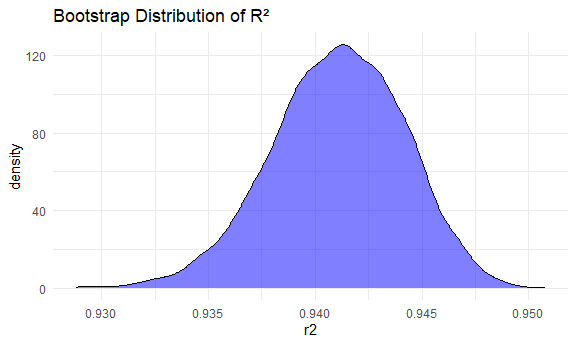
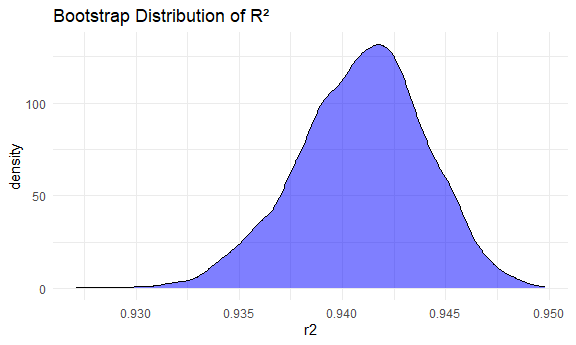
commented on graphs, finished assignment

diff --git a/p8105_hw6_csl2209.md b/p8105_hw6_csl2209.md
@@ -133,6 +133,10 @@ city_OR |>
 
 <img src="p8105_hw6_csl2209_files/figure-gfm/unnamed-chunk-5-1.png" width="90%" />
 
+**Albuquerque has the largest OR and the largest CI range. New York has
+the lowest CI range, and the lowest OR for homicide resolution (men
+vs. women).**
+
 ## Problem 2
 
 ``` r
@@ -218,6 +222,14 @@ ggplot(boot_results, aes(x = beta_product)) +
 
 <img src="p8105_hw6_csl2209_files/figure-gfm/unnamed-chunk-10-2.png" width="90%" />
 
+**The distribution of R^2 values is fairly symmetrical and centered with
+a minimal skew to the right. These features suggest a normal
+distribution of R^2 values.**
+
+**The distribution of B1/B2 is skewed to the right, and has a heavy tail
+extending to low values. These features may be related to the frequency
+with which large outliers are included in the bootstrap sample.**
+
 Using the 5000 bootstrap estimates, identify the 2.5% and 97.5%
 quantiles to provide a 95% confidence interval for r^2 and
 β<sup>1β</sup>2.
@@ -234,7 +246,7 @@ boot_results |>
     ## # A tibble: 1 × 4
     ##   r2_ci_lower r2_ci_upper beta_product_ci_lower beta_product_ci_upper
     ##         <dbl>       <dbl>                 <dbl>                 <dbl>
-    ## 1       0.935       0.947                 -278.                 -126.
+    ## 1       0.934       0.947                 -278.                 -126.
 
 ## Problem 3
 
@@ -432,4 +444,12 @@ cv_df |>
     ## # A tibble: 1 × 3
     ##   mean_rmse_mlr mean_rmse_age mean_rmse_interaction
     ##           <dbl>         <dbl>                 <dbl>
-    ## 1          332.          334.                  285.
+    ## 1          334.          336.                  287.
+
+**In the scatterplots comparing blength and bwt, we see that MLR and Age
+fit are pretty similar, while interaction fit has more variance. Though
+the interaction model has the smallest RMSE and the highest r. squared,
+it has a lot variables, making it the least ideal in terms of parsimony.
+The mlr and age models are very similar to the interaction fit with less
+variance and less variables, making these models practical in terms of
+parsimony.**
